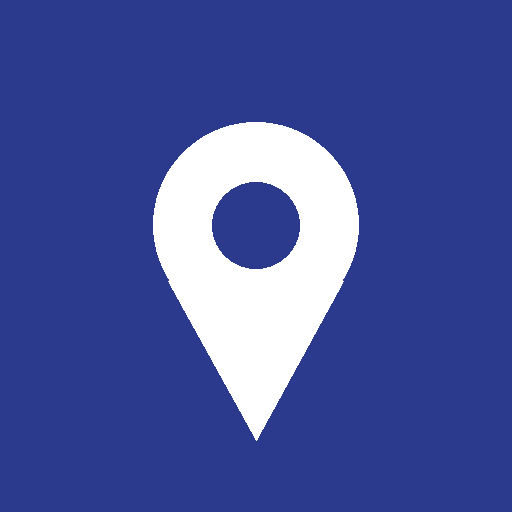
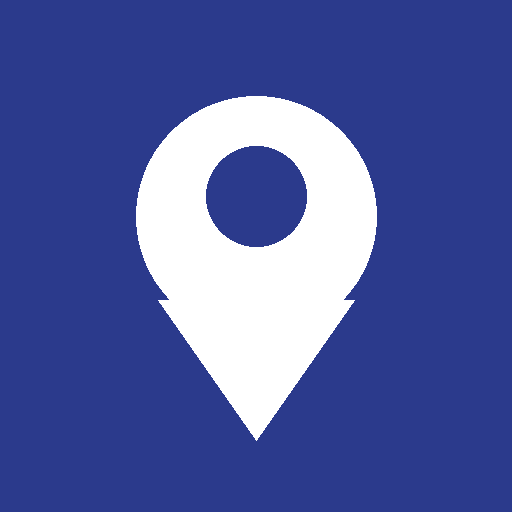
Add files via upload

Changed region(s): [[0.25, 0.1875, 0.75, 0.8125], [0.375, 0.2812, 0.625, 0.5312], [0.4688, 0.8125, 0.5312, 0.8438]]

diff --git a/index.html b/index.html
@@ -1,5 +1,5 @@
 <!doctype html><html lang="ar" dir="rtl"><head><meta charset="utf-8">
-<meta name="viewport" content="width=device-width,initial-scale=1,viewport-fit=cover">
+<meta name="viewport" content="width=device-width,initial-scale=1,maximum-scale=1,viewport-fit=cover,interactive-widget=resizes-content"><meta name="mobile-web-app-capable" content="yes"><meta name="apple-mobile-web-app-capable" content="yes"><meta name="apple-mobile-web-app-status-bar-style" content="default"><meta name="color-scheme" content="light dark">
 <title>المواصلات في سيئون</title>
 <link rel="manifest" href="manifest.webmanifest"><meta name="theme-color" content="#2b3a8c"><link rel="icon" href="icon-192.png"><link rel="apple-touch-icon" href="icon-192.png">
 <link rel="stylesheet" href="https://fonts.googleapis.com/css2?family=Readex+Pro:wght@300;400;500;600&family=Reem+Kufi:wght@500;700&display=swap">
@@ -28,13 +28,15 @@ header{display:flex;justify-content:space-between;align-items:center;gap:10px;fl
 .err{color:var(--bad);font-size:13.5px;margin:0}.empty{color:var(--mut);text-align:center;padding:20px}.kv{display:flex;justify-content:space-between;font-size:14px}
 .ph{direction:ltr;unicode-bidi:isolate}.out{align-self:flex-start;background:0;border:1px solid var(--ln);border-radius:8px;padding:3px 10px;font-size:12.5px;color:var(--mut)}.rem{display:flex;gap:7px;align-items:center;font-size:13.5px;color:var(--mut)}.f3{display:grid;grid-template-columns:1fr 1fr 1fr;gap:10px}.toast{position:fixed;inset-inline:0;bottom:18px;margin:auto;width:max-content;max-width:90%;background:var(--ink);color:var(--bg);padding:9px 16px;border-radius:10px;opacity:0;transition:.2s;pointer-events:none}.toast.show{opacity:1}
 .chat{position:fixed;inset:0;background:var(--bg);z-index:50;display:flex;flex-direction:column;padding:env(safe-area-inset-top) 0 env(safe-area-inset-bottom)}.chat header{padding:12px 16px;border-bottom:1px solid var(--ln);background:var(--s)}#cmsgs{flex:1;overflow:auto;padding:14px;display:flex;flex-direction:column;gap:8px}.bub{max-width:80%;padding:8px 12px;border-radius:14px;background:var(--s);border:1px solid var(--ln);margin-right:auto;word-break:break-word}.bub.me{margin-right:0;margin-left:auto;background:var(--ac);color:var(--on);border-color:var(--ac)}#cf{display:flex;gap:8px;padding:10px;border-top:1px solid var(--ln);background:var(--s)}
+html{-webkit-tap-highlight-color:transparent;overscroll-behavior:none}body{overscroll-behavior:none;-webkit-user-select:none;user-select:none;-webkit-touch-callout:none;padding-top:max(18px,env(safe-area-inset-top));padding-bottom:calc(40px + env(safe-area-inset-bottom))}input,select,textarea,.bub{-webkit-user-select:text;user-select:text}button,.hub-card,select,input{touch-action:manipulation}button{transition:transform .12s,opacity .12s}button:active{transform:scale(.97);opacity:.85}section{animation:in .22s ease}@keyframes in{from{opacity:0;transform:translateY(10px)}to{opacity:1;transform:none}}.toast{bottom:calc(18px + env(safe-area-inset-bottom))}
+@media(prefers-reduced-motion:reduce){*{animation:none!important;transition:none!important}}
 </style></head><body>
 <div class="app">
 <section id="s-home"><header><div><h1>المواصلات في سيئون</h1><p class="sub">اختر نوع المشوار الذي تحتاجه</p></div></header>
 <button class="hub-card" data-go="tuktuk"><span><b>التكتك</b><span class="sub">داخل سيئون. أقرب تكتك متفرغ الآن.</span><br><span class="meta" id="h-tk"></span></span></button>
 <button class="hub-card" data-go="internal"><span><b>الرحلات الداخلية</b><span class="sub">المكلا وعدن والعبر وغيرها.</span><br><span class="meta" id="h-in"></span></span></button>
 <button class="hub-card" data-go="external"><span><b>الرحلات الخارجية</b><span class="sub">السعودية وعمان.</span><br><span class="meta" id="h-ex"></span></span></button>
-<button class="link" data-go="admin">لوحة المكتب (للإدارة فقط)</button></section>
+<button class="link" data-go="admin">لوحة المكتب (للإدارة فقط)</button><button class="link" id="inst" hidden>📲 ثبّت التطبيق على هاتفك</button></section>
 
 <section id="s-tuktuk" hidden><button class="back" data-go="home">← الرئيسية</button>
 <header><div><h1>تكتك سيئون</h1><p class="sub">أقرب تكتك متفرغ الآن</p></div><div class="tabs" data-tabs><button aria-selected="true" data-t="c">العميل</button><button aria-selected="false" data-t="d">السائق</button></div></header>
@@ -48,10 +50,10 @@ header{display:flex;justify-content:space-between;align-items:center;gap:10px;fl
 
 <section id="s-trips" hidden><button class="back" data-go="home">← الرئيسية</button>
 <header><div><h1 id="tr-title"></h1></div><div class="tabs" data-tabs><button aria-selected="true" data-t="c">المسافر</button><button aria-selected="false" data-t="d">السائق</button></div></header>
-<div id="tr-c"><div class="panel"><b>إلى أين تريد السفر؟</b><div class="dests" id="dests"></div></div><div class="panel"><b id="tr-lt"></b><div class="list" id="tr-list"></div></div></div>
+<div id="tr-c"><div class="panel"><div id="rq2-new" class="form"><b>اطلب مشوارك</b><form class="form" id="rf2"><label class="fld">اسمك<input id="r2-name" maxlength="30"></label><label class="fld">مكان وجودك<input id="r2-from" maxlength="60"></label><label class="fld">الوجهة<select id="r2-to"></select></label><label class="fld" id="r2-cw">المدينة<select id="r2-city"></select></label><label class="fld">الموعد المطلوب<input id="r2-when" maxlength="40" placeholder="مثال: غداً الساعة 8 صباحاً"></label><label class="fld">ملاحظة (اختياري)<input id="r2-note" maxlength="60"></label><p class="err" id="r2-err" hidden></p><button class="btn p">إرسال الطلب للسائقين</button></form></div><div id="rq2-my" class="list"></div></div><div class="panel"><b>إلى أين تريد السفر؟</b><div class="dests" id="dests"></div></div><div class="panel"><b id="tr-lt"></b><div class="list" id="tr-list"></div></div></div>
 <div id="tr-d" hidden><div id="tr-login"></div>
 <div class="panel" id="tr-panel" hidden><button class="out" data-a="out">تسجيل الخروج</button><div class="sb" id="tr-sub"></div><div class="sb bad" id="tr-no" hidden>حسابك غير مسجّل لهذا النوع من الرحلات. راجع المكتب إن أردت إضافته.</div>
-<form class="form" id="tf"><b id="tf-t"></b><label class="fld">الوجهة<select id="f-dest"></select></label><label class="fld" id="f-cw">المدينة<select id="f-city"></select></label>
+<b id="tr-rt">طلبات المسافرين</b><div class="list" id="dr-rides2"></div><form class="form" id="tf"><b id="tf-t"></b><label class="fld">الوجهة<select id="f-dest"></select></label><label class="fld" id="f-cw">المدينة<select id="f-city"></select></label>
 <label class="fld">يوم الرحلة<select id="f-day"></select></label><div class="f3"><label class="fld">الساعة<select id="f-h"></select></label><label class="fld">الدقيقة<select id="f-m"></select></label><label class="fld">الفترة<select id="f-ap"><option value="am">صباحاً</option><option value="pm">مساءً</option></select></label></div><label class="fld">عدد المقاعد<input type="number" id="f-seats" min="1" max="8" value="4"></label>
 <label class="fld">نوع السيارة<input id="f-veh" maxlength="30" placeholder="مثال: هايلكس 2020"></label><label class="fld">ملاحظة (اختياري)<input id="f-note" maxlength="60"></label>
 <p class="err" id="f-err" hidden></p><button class="btn p">نشر الرحلة</button></form>
@@ -66,7 +68,7 @@ header{display:flex;justify-content:space-between;align-items:center;gap:10px;fl
 <div class="f2"><label class="fld">المركبة<input id="n-veh" maxlength="40"></label><label class="fld">رقم التكتك<input id="n-tuk" inputmode="numeric"></label></div>
 <div class="f2"><label class="fld">المدة<select id="n-plan"></select></label><label class="fld">المبلغ (ريال)<input id="n-fee" type="number" min="0" step="500"></label></div>
 <label class="fld">رقم سند القبض<input id="n-rec"></label><p class="err" id="n-err" hidden></p><button class="btn p">تسجيل وفتح الحساب</button></form></section>
-</div><p class="hint" style="text-align:center;margin:20px">الإصدار 4</p><div class="chat" id="chat" hidden><header><b id="ct"></b><button class="back" id="cx">إغلاق</button></header><div id="cmsgs"></div><form id="cf"><input id="cin" maxlength="500" placeholder="اكتب رسالة..." autocomplete="off"><button class="btn p" style="flex:none">إرسال</button></form></div><div class="toast" id="toast"></div>
+</div><p class="hint" style="text-align:center;margin:20px">الإصدار 6</p><div class="chat" id="chat" hidden><header><b id="ct"></b><button class="back" id="cx">إغلاق</button></header><div id="cmsgs"></div><form id="cf"><input id="cin" maxlength="500" placeholder="اكتب رسالة..." autocomplete="off"><button class="btn p" style="flex:none">إرسال</button></form></div><div class="toast" id="toast"></div>
 
 <script src="https://cdnjs.cloudflare.com/ajax/libs/leaflet/1.9.4/leaflet.js"></script>
 <script src="https://www.gstatic.com/firebasejs/10.12.2/firebase-app-compat.js"></script>
@@ -99,8 +101,8 @@ Object.assign(S,{my:{},open:{},acc:{},dl:0,dn:0,chat:null,un:{},so:{},soi:0,da:0
 const fresh=r=>Date.now()-r.ts<72e5||r.status=='accepted';
 const ls=(q,f)=>{LS.push(q);q.on('value',s=>{f(s.val()||{});render()},()=>{})};
 function myRides(uid){ls(db.ref('rides').orderByChild('cid').equalTo(uid),v=>{const n=[];Object.keys(v).forEach(i=>Object.keys(v[i].offers||{}).forEach(p=>{if(!S.so[i+p]){S.so[i+p]=1;n.push(1)}}));if(S.soi&&n.length)ping('وافق سائق على مشوارك','افتح التطبيق للرد');S.soi=1;S.my=v})}
-function drvRides(){if(S.dl||!S.ph||!act(S.me)||!(S.me.services&&S.me.services.tuktuk))return;S.dl=1;
-  ls(db.ref('rides').orderByChild('status').equalTo('open'),v=>{const n=Object.keys(v).filter(k=>!S.open[k]);if(S.dn&&n.length){ping('طلب مشوار جديد','يوجد طلب جديد من عميل')}S.open=v;S.dn=1});
+function drvRides(){if(S.dl||!S.ph||!act(S.me)||!(S.me.services&&Object.keys(S.me.services).length))return;S.dl=1;
+  ls(db.ref('rides').orderByChild('status').equalTo('open'),v=>{const n=Object.keys(v).filter(k=>!S.open[k]&&S.me&&S.me.services&&S.me.services[v[k].kind||'tuktuk']);if(S.dn&&n.length){ping('طلب مشوار جديد','يوجد طلب جديد من عميل')}S.open=v;S.dn=1});
   ls(db.ref('rides').orderByChild('driver').equalTo(S.ph),v=>{if(S.da&&Object.keys(v).some(k=>!S.acc[k]))ping('قبل العميل عرضك','يمكنك الآن الدردشة معه');S.da=1;S.acc=v})}
 let CL={};
 const seenK=(id,w)=>{try{return localStorage.getItem('seen_'+w+id)||''}catch(e){return ''}},seen=(id,k,w)=>{try{localStorage.setItem('seen_'+w+id,k)}catch(e){}};
@@ -119,16 +121,17 @@ function closeChat(){if(cref){cref.off();cref=null}S.chat=null;$('chat').hidden=
 $('cx').onclick=closeChat;
 $('cf').onsubmit=e=>{e.preventDefault();const t=$('cin').value.trim();if(!t||!S.chat)return;$('cin').value='';db.ref('chats/'+S.chat).push({uid:auth.currentUser.uid,w:S.cw,text:t,ts:firebase.database.ServerValue.TIMESTAMP}).catch(x=>toast('تعذر الإرسال: '+x.code))};
 $('rf').onsubmit=async e=>{e.preventDefault();const to=$('r-to').value.trim();if(!to)return msg('r-err','اكتب المكان الذي تريد الذهاب إليه.');msg('r-err','');
-  try{if(!auth.currentUser)await auth.signInAnonymously();await db.ref('rides').push({cid:auth.currentUser.uid,name:$('r-name').value.trim()||'عميل',from:$('r-from').value.trim(),to,note:$('r-note').value.trim(),status:'open',ts:firebase.database.ServerValue.TIMESTAMP});e.target.reset();toast('تم إرسال طلبك للسائقين')}catch(x){msg('r-err','تعذر الإرسال: '+x.code)}};
+  try{if(!auth.currentUser)await auth.signInAnonymously();await db.ref('rides').push({cid:auth.currentUser.uid,kind:'tuktuk',name:$('r-name').value.trim()||'عميل',from:$('r-from').value.trim(),to,note:$('r-note').value.trim(),status:'open',ts:firebase.database.ServerValue.TIMESTAMP});e.target.reset();toast('تم إرسال طلبك للسائقين')}catch(x){msg('r-err','تعذر الإرسال: '+x.code)}};
 const rt=r=>`${esc(r.from||'—')} ← ${esc(r.to)}`;
-function rideUI(){watchChats();if(S.chat&&!S.my[S.chat]&&!S.acc[S.chat])closeChat();const n=Date.now(),my=Object.keys(S.my).map(i=>Object.assign({id:i},S.my[i])).filter(fresh).sort((a,b)=>b.ts-a.ts);$('rq-new').hidden=my.length>0;
-  $('rq-my').innerHTML=my.map(r=>{const of=Object.entries(r.offers||{}).filter(x=>x[1].status!='rejected'),o=(r.offers||{})[r.driver]||{};
-    return `<div class="row" data-id="${r.id}"><div class="top"><div class="nm">${rt(r)}<div class="meta">${ago(n-r.ts)}</div></div><span class="pill ${r.status=='open'?'soon':'free'}">${r.status=='open'?'بانتظار السائقين':'تمت الموافقة'}</span></div>`+
-    (r.status=='accepted'?`<div class="sb">السائق ${esc(o.name||'')}${o.tuk?' · تكتك '+esc(o.tuk):''} ${rate(r.driver)}</div>${rateRow(r)}<div class="acts"><button class="btn p" data-a="chat" data-w="c">💬 دردشة${S.un[r.id]?' 🔴':''}</button><button class="btn d" data-a="cancelRide">إنهاء</button></div>`:
-    (of.map(x=>`<div class="sb"><b>${esc(x[1].name)}</b>${x[1].tuk?' · تكتك '+esc(x[1].tuk):''} ${rate(x[0])} يوافق على مشوارك<div class="acts" style="margin-top:6px"><button class="btn p" data-a="okOffer" data-p="${x[0]}">قبول</button><button class="btn" data-a="noOffer" data-p="${x[0]}">رفض</button></div></div>`).join('')||'<div class="hint">لم يوافق أحد بعد، ابقَ في الصفحة.</div>')+'<div class="acts"><button class="btn d" data-a="cancelRide">إلغاء الطلب</button></div>')+'</div>'}).join('');
-  if(S.ph&&S.me){const mk=k=>(o)=>Object.keys(o).map(i=>Object.assign({id:i},o[i])),op=mk()(S.open).filter(fresh).sort((a,b)=>b.ts-a.ts),ac=mk()(S.acc);
-    $('dr-rides').innerHTML=ac.map(r=>`<div class="row" data-id="${r.id}"><div class="top"><div class="nm">${esc(r.name)}<div class="meta">${rt(r)}</div></div><span class="pill free">مقبول</span></div><div class="acts"><button class="btn p" data-a="chat" data-w="d">💬 دردشة${S.un[r.id]?' 🔴':''}</button></div></div>`).join('')+
-    op.map(r=>{const o=(r.offers||{})[S.ph];return `<div class="row" data-id="${r.id}"><div class="top"><div class="nm">${esc(r.name)}<div class="meta">${rt(r)} · ${ago(n-r.ts)}</div>${r.note?`<div class="note">${esc(r.note)}</div>`:''}</div></div><div class="acts">${!o?'<button class="btn p" data-a="offer">أستطيع القيام بالمشوار</button>':o.status=='rejected'?'<span class="pill busy">رفض العميل عرضك</span>':'<span class="pill soon">بانتظار رد العميل</span><button class="btn" data-a="unoffer">سحب</button>'}</div></div>`}).join('')||'<div class="empty">لا توجد طلبات الآن.</div>'}}
+function reqUI(k,nid,lid,did){const n=Date.now(),L=o=>Object.keys(o).map(i=>Object.assign({id:i},o[i])).filter(r=>(r.kind||'tuktuk')==k),my=L(S.my).filter(fresh).sort((a,b)=>b.ts-a.ts);
+  if(S.chat&&!S.my[S.chat]&&!S.acc[S.chat])closeChat();$(nid).hidden=my.length>0;const dn=o=>o.tuk?' · تكتك '+esc(o.tuk):o.veh?' · '+esc(o.veh):'';
+  $(lid).innerHTML=my.map(r=>{const of=Object.entries(r.offers||{}).filter(x=>x[1].status!='rejected'),o=(r.offers||{})[r.driver]||{};
+    return `<div class="row" data-id="${r.id}"><div class="top"><div class="nm">${rt(r)}<div class="meta">${r.when?esc(r.when)+' · ':''}${ago(n-r.ts)}</div></div><span class="pill ${r.status=='open'?'soon':'free'}">${r.status=='open'?'بانتظار السائقين':'تمت الموافقة'}</span></div>`+
+    (r.status=='accepted'?`<div class="sb">السائق ${esc(o.name||'')}${dn(o)} ${rate(r.driver)}</div>${rateRow(r)}<div class="acts"><button class="btn p" data-a="chat" data-w="c">💬 دردشة${S.un[r.id]?' 🔴':''}</button><button class="btn d" data-a="cancelRide">إنهاء</button></div>`:
+    (of.map(x=>`<div class="sb"><b>${esc(x[1].name)}</b>${dn(x[1])} ${rate(x[0])} يوافق على مشوارك<div class="acts" style="margin-top:6px"><button class="btn p" data-a="okOffer" data-p="${x[0]}">قبول</button><button class="btn" data-a="noOffer" data-p="${x[0]}">رفض</button></div></div>`).join('')||'<div class="hint">لم يوافق أحد بعد، ابقَ في الصفحة.</div>')+'<div class="acts"><button class="btn d" data-a="cancelRide">إلغاء الطلب</button></div>')+'</div>'}).join('');
+  if(S.ph&&S.me&&S.me.services&&S.me.services[k]){const op=L(S.open).filter(fresh).sort((a,b)=>b.ts-a.ts),ac=L(S.acc);
+    $(did).innerHTML=ac.map(r=>`<div class="row" data-id="${r.id}"><div class="top"><div class="nm">${esc(r.name)}<div class="meta">${rt(r)}</div></div><span class="pill free">مقبول</span></div><div class="acts"><button class="btn p" data-a="chat" data-w="d">💬 دردشة${S.un[r.id]?' 🔴':''}</button></div></div>`).join('')+
+    op.map(r=>{const o=(r.offers||{})[S.ph];return `<div class="row" data-id="${r.id}"><div class="top"><div class="nm">${esc(r.name)}<div class="meta">${rt(r)} · ${ago(n-r.ts)}</div>${r.when?`<div class="meta">الموعد: ${esc(r.when)}</div>`:''}${r.note?`<div class="note">${esc(r.note)}</div>`:''}</div></div><div class="acts">${!o?'<button class="btn p" data-a="offer">أستطيع القيام بالمشوار</button>':o.status=='rejected'?'<span class="pill busy">رفض العميل عرضك</span>':'<span class="pill soon">بانتظار رد العميل</span><button class="btn" data-a="unoffer">سحب</button>'}</div></div>`}).join('')||'<div class="empty">لا توجد طلبات الآن.</div>'}}
 S.rts={};db.ref('ratings').on('value',s=>{S.rts=s.val()||{};render()},()=>{});
 const rate=ph=>{const o=Object.values(S.rts[ph]||{});return o.length?`⭐ ${(o.reduce((a,x)=>a+x.s,0)/o.length).toFixed(1)} (${o.length})`:''};
 const rateRow=r=>{const m=(S.rts[r.driver]||{})[r.id];return m?`<div class="hint">تقييمك للسائق: ${'⭐'.repeat(m.s)}</div>`:`<div class="hint">قيّم السائق:</div><div class="acts">${[1,2,3,4,5].map(n=>`<button class="btn" data-a="star" data-n="${n}" data-p="${r.driver}">${n}⭐</button>`).join('')}</div>`};
@@ -157,7 +160,7 @@ function push(o){const m=S.me;if(!act(m)||!m.services||!m.services.tuktuk)return
 /* ---------- actions ---------- */
 const A={
   star(b){const id=b.closest('[data-id]').dataset.id;db.ref('ratings/'+b.dataset.p+'/'+id).set({s:+b.dataset.n,by:auth.currentUser.uid,ts:firebase.database.ServerValue.TIMESTAMP}).then(()=>toast('شكراً لتقييمك')).catch(e=>toast('تعذر التقييم: '+e.code))},
-  offer(b){const m=S.me;db.ref('rides/'+b.closest('[data-id]').dataset.id+'/offers/'+S.ph).set({name:m.name,tuk:m.tukNo||'',status:'pending',ts:firebase.database.ServerValue.TIMESTAMP}).then(()=>toast('تم إرسال موافقتك للعميل')).catch(e=>toast('تعذر الإرسال: '+e.code))},
+  offer(b){const m=S.me;db.ref('rides/'+b.closest('[data-id]').dataset.id+'/offers/'+S.ph).set({name:m.name,tuk:m.tukNo||'',veh:m.veh||'',status:'pending',ts:firebase.database.ServerValue.TIMESTAMP}).then(()=>toast('تم إرسال موافقتك للعميل')).catch(e=>toast('تعذر الإرسال: '+e.code))},
   unoffer(b){db.ref('rides/'+b.closest('[data-id]').dataset.id+'/offers/'+S.ph).remove()},
   okOffer(b){const id=b.closest('[data-id]').dataset.id,p=b.dataset.p,u={status:'accepted',driver:p};u['offers/'+p+'/status']='accepted';db.ref('rides/'+id).update(u).then(()=>openChat(id,'c')).catch(e=>toast('تعذر القبول: '+e.code))},
   noOffer(b){db.ref('rides/'+b.closest('[data-id]').dataset.id+'/offers/'+b.dataset.p+'/status').set('rejected')},
@@ -189,7 +192,7 @@ document.addEventListener('click',e=>{const g=e.target.closest('[data-go]');if(g
 /* ---------- trips form ---------- */
 function initTime(){const t=new Date(),o=[];for(let i=0;i<15;i++){const d=new Date(t.getFullYear(),t.getMonth(),t.getDate()+i);o.push(opt(d.getFullYear()+'-'+(d.getMonth()+1)+'-'+d.getDate(),i==0?'اليوم':i==1?'غداً':d.toLocaleDateString('ar-u-nu-latn',{weekday:'long',day:'numeric',month:'long'})))}
   $('f-day').innerHTML=o.join('');$('f-h').innerHTML=[...Array(12)].map((_,i)=>opt(i+1)).join('');$('f-h').value='8';$('f-m').innerHTML=['00','10','20','30','40','50'].map(x=>opt(x)).join('')}
-function initForm(){initTime();const k=S.kind;$('tf-t').textContent='نشر رحلة '+(k=='internal'?'داخلية':'خارجية');$('f-dest').innerHTML=DEST[k].map(x=>opt(x)).join('');fCity()}
+function initForm(){initTime();const k=S.kind;$('tf-t').textContent='نشر رحلة '+(k=='internal'?'داخلية':'خارجية');$('f-dest').innerHTML=DEST[k].map(x=>opt(x)).join('');fCity();$('r2-to').innerHTML=DEST[k].map(x=>opt(x)).join('');r2c()}
 function fCity(){const ex=S.kind=='external';$('f-cw').hidden=!ex;if(ex)$('f-city').innerHTML=(CITY[$('f-dest').value]||[]).map(x=>opt(x)).join('')}
 $('f-dest').onchange=fCity;
 $('tf').onsubmit=e=>{e.preventDefault();const dp=$('f-day').value.split('-').map(Number),at=new Date(dp[0],dp[1]-1,dp[2],(+$('f-h').value%12)+($('f-ap').value=='pm'?12:0),+$('f-m').value).getTime(),m=S.me;
@@ -229,7 +232,7 @@ function render(){try{watchChats()}catch(e){console.error(e)}
   const now=Date.now(),live=Object.values(S.drivers).filter(d=>d.status!='off'&&d.end>now),okT=k=>Object.keys(S.trips).map(i=>Object.assign({id:i},S.trips[i])).filter(t=>t.kind==k&&t.seats>0&&t.at>now&&t.end>now);
   if(scr=='home'){$('h-tk').textContent=live.filter(d=>d.status=='free').length+' متفرغ الآن';$('h-in').textContent='رحلات قادمة: '+okT('internal').length;$('h-ex').textContent='رحلات قادمة: '+okT('external').length}
   [...document.querySelectorAll('[data-tabs]')].forEach(t=>[...t.children].forEach(b=>b.setAttribute('aria-selected',b.dataset.t==S.tab)));
-  if(scr=='tuktuk'){const c=S.tab=='c';$('tk-c').hidden=!c;$('tk-d').hidden=c;rideUI();
+  if(scr=='tuktuk'){const c=S.tab=='c';$('tk-c').hidden=!c;$('tk-d').hidden=c;reqUI('tuktuk','rq-new','rq-my','dr-rides');
     live.forEach(d=>d.m=S.pos&&d.lat!=null?dist(S.pos,d):null);live.sort((x,y)=>(x.status=='free'?0:1)-(y.status=='free'?0:1)||(x.m==null?1e12:x.m)-(y.m==null?1e12:y.m));
     $('tk-list').innerHTML=live.map(d=>`<div class="row"><div class="top"><div class="nm">${esc(d.name)}<div class="meta">تكتك رقم ${esc(d.tuk)} ${rate(d.phone)}</div>${d.lat!=null&&now-d.ts>12e4?`<div class="meta">آخر موقع معروف ${ago(now-d.ts)}</div>`:''}${d.note?`<div class="note">${d.note.mode=='at'?'الآن في: ':d.note.mode=='to'?'متجه إلى: ':''}${esc(d.note.text)}</div>`:''}</div><span class="pill ${d.status}">${d.status=='free'?'متفرغ':'مشغول'}</span><div class="dist">${d.m!=null?fd(d.m):''}</div></div><div class="acts">${contact(d.phone)}${d.lat!=null?`<a class="btn" target="_blank" rel="noopener" href="https://www.google.com/maps?q=${d.lat},${d.lng}">الخريطة</a>`:''}</div></div>`).join('')||'<div class="empty">لا يوجد تكتك متصل الآن.</div>';
     try{drawMap(live)}catch(e){console.error(e)}$('tk-login').hidden=!!S.ph;$('tk-panel').hidden=!S.ph;
@@ -238,8 +241,8 @@ function render(){try{watchChats()}catch(e){console.error(e)}
   if(/internal|external/.test(scr)){const c=S.tab=='c',k=S.kind,l=okT(k);$('tr-c').hidden=!c;$('tr-d').hidden=c;$('tr-title').textContent=k=='internal'?'الرحلات الداخلية':'الرحلات الخارجية';
     $('dests').innerHTML=DEST[k].map(d=>`<button data-d="${d}" aria-pressed="${d==S.dest}"><b>${d}</b><br><span class="meta">${l.filter(t=>t.dest==d).length} رحلة</span></button>`).join('');$('tr-lt').textContent='المتاحون للسفر إلى '+S.dest;
     $('tr-list').innerHTML=l.filter(t=>t.dest==S.dest).sort((a,b)=>a.at-b.at).map(t=>`<div class="row"><div class="top"><div class="nm">${esc(t.name)}<div class="meta">${esc(t.veh)} · ${t.seats} مقاعد${t.city?' · إلى '+esc(t.city):''}</div>${t.note?`<div class="note">${esc(t.note)}</div>`:''}</div><div class="dist">${fT(t.at)}</div></div><div class="acts">${contact(t.ph)}</div></div>`).join('')||'<div class="empty">لا توجد رحلات لهذه الوجهة الآن.</div>';
-    $('tr-login').hidden=!!S.ph;$('tr-panel').hidden=!S.ph;
-    if(S.ph&&S.me){const s=sb(S.me),ok=!!(S.me.services&&S.me.services[k]);$('tr-no').hidden=ok;$('tf').hidden=!ok;$('my-t').hidden=!ok;$('my-list').hidden=!ok;$('tr-sub').className='sb '+s[0];$('tr-sub').textContent=s[1];
+    $('tr-login').hidden=!!S.ph;$('tr-panel').hidden=!S.ph;reqUI(k,'rq2-new','rq2-my','dr-rides2');
+    if(S.ph&&S.me){const s=sb(S.me),ok=!!(S.me.services&&S.me.services[k]);$('tr-no').hidden=ok;$('tf').hidden=!ok;$('tr-rt').hidden=$('dr-rides2').hidden=!ok;$('my-t').hidden=!ok;$('my-list').hidden=!ok;$('tr-sub').className='sb '+s[0];$('tr-sub').textContent=s[1];
       $('my-list').innerHTML=Object.keys(S.trips).map(i=>Object.assign({id:i},S.trips[i])).filter(t=>t.ph==S.ph&&t.kind==k&&t.at>now).sort((a,b)=>a.at-b.at).map(t=>`<div class="row" data-id="${t.id}"><div class="top"><div class="nm">إلى ${esc(t.dest)}${t.city?' · '+esc(t.city):''}<div class="meta">${esc(t.veh)} · ${fT(t.at)}</div></div><span class="pill ${t.seats?'free':'busy'}">${t.seats?t.seats+' مقاعد':'ممتلئة'}</span></div><div class="acts"><button class="btn" data-a="seat" data-d="-">− مقعد</button><button class="btn" data-a="seat" data-d="+">+ مقعد</button><button class="btn d" data-a="del">إلغاء</button></div></div>`).join('')||'<div class="empty">لم تنشر رحلات بعد.</div>'}}
   if(scr=='admin'){const on=S.admin;$('ad-login').hidden=on;$('ad-tabs').hidden=!on;$('ad-l').hidden=!on||S.aTab!='l';$('ad-n').hidden=!on||S.aTab!='n';$('ad-f').hidden=!on||S.aTab!='f';
     [...$('ad-tabs').children].forEach(b=>b.setAttribute('aria-selected',b.dataset.t==S.aTab));
@@ -250,5 +253,12 @@ function render(){try{watchChats()}catch(e){console.error(e)}
         `<div class="checks sv">${['tuktuk','internal','external'].map(k=>`<label><input type="checkbox" data-k="${k}"${m.services&&m.services[k]?' checked':''}>${SV[k]}</label>`).join('')}</div><button class="btn" data-a="svc">حفظ الخدمات</button><div class="f2"><select class="rn-plan">${[1,3,6,12].map(p=>opt(p,PL[p])).join('')}</select><input class="rn-fee" type="number" value="${FEE[1]}"></div><input class="rn-rec" placeholder="رقم سند القبض"><button class="btn p" data-a="renew">تجديد الاشتراك</button>${m.suspended?'<button class="btn" data-a="react">إعادة التفعيل</button>':'<button class="btn d" data-a="cancel">إلغاء الاشتراك</button>'}</div>`:'')+'</div>'}).join('')||'<div class="empty">لا يوجد سائقون.</div>'}}
 }
 document.addEventListener('change',e=>{if(e.target.classList.contains('rn-plan'))e.target.closest('.detail').querySelector('.rn-fee').value=FEE[e.target.value]});
+function r2c(){const ex=S.kind=='external';$('r2-cw').hidden=!ex;if(ex)$('r2-city').innerHTML=(CITY[$('r2-to').value]||[]).map(x=>opt(x)).join('')}
+$('r2-to').onchange=r2c;
+$('rf2').onsubmit=async e=>{e.preventDefault();const to=$('r2-to').value+(S.kind=='external'&&$('r2-city').value?' - '+$('r2-city').value:'');msg('r2-err','');
+  try{if(!auth.currentUser)await auth.signInAnonymously();await db.ref('rides').push({cid:auth.currentUser.uid,kind:S.kind,name:$('r2-name').value.trim()||'عميل',from:$('r2-from').value.trim(),to,when:$('r2-when').value.trim(),note:$('r2-note').value.trim(),status:'open',ts:firebase.database.ServerValue.TIMESTAMP});e.target.reset();r2c();toast('تم إرسال طلبك للسائقين')}catch(x){msg('r2-err','تعذر الإرسال: '+x.code)}};
+let dip=null;addEventListener('beforeinstallprompt',e=>{e.preventDefault();dip=e;$('inst').hidden=false});$('inst').onclick=()=>{if(dip){dip.prompt();dip=null;$('inst').hidden=true}};addEventListener('appinstalled',()=>{$('inst').hidden=true});
+addEventListener('offline',()=>toast('لا يوجد اتصال بالإنترنت'));addEventListener('online',()=>toast('عاد الاتصال'));
+document.addEventListener('click',e=>{if(e.target.closest('button,.hub-card')&&navigator.vibrate)navigator.vibrate(8)});
 addEventListener('error',e=>toast('خطأ: '+e.message));if('serviceWorker' in navigator)addEventListener('load',()=>navigator.serviceWorker.register('sw.js').catch(()=>{}));addEventListener('hashchange',render);setInterval(render,30000);initForm();render();
 </script></body></html>

diff --git a/sw.js b/sw.js
@@ -1,5 +1,6 @@
-const V='mishwar-v3';
+const V='mishwar-v5';
 self.addEventListener('install',()=>self.skipWaiting());
 self.addEventListener('activate',e=>e.waitUntil(caches.keys().then(k=>Promise.all(k.map(x=>caches.delete(x)))).then(()=>self.clients.claim())));
 self.addEventListener('fetch',e=>{const r=e.request;if(r.method!=='GET'||new URL(r.url).origin!==location.origin)return;
 e.respondWith(fetch(r).then(res=>{const c=res.clone();caches.open(V).then(x=>x.put(r,c));return res}).catch(()=>caches.match(r)))});
+self.addEventListener('notificationclick',e=>{e.notification.close();e.waitUntil(clients.matchAll({type:'window'}).then(l=>l[0]?l[0].focus():clients.openWindow('./')))});
